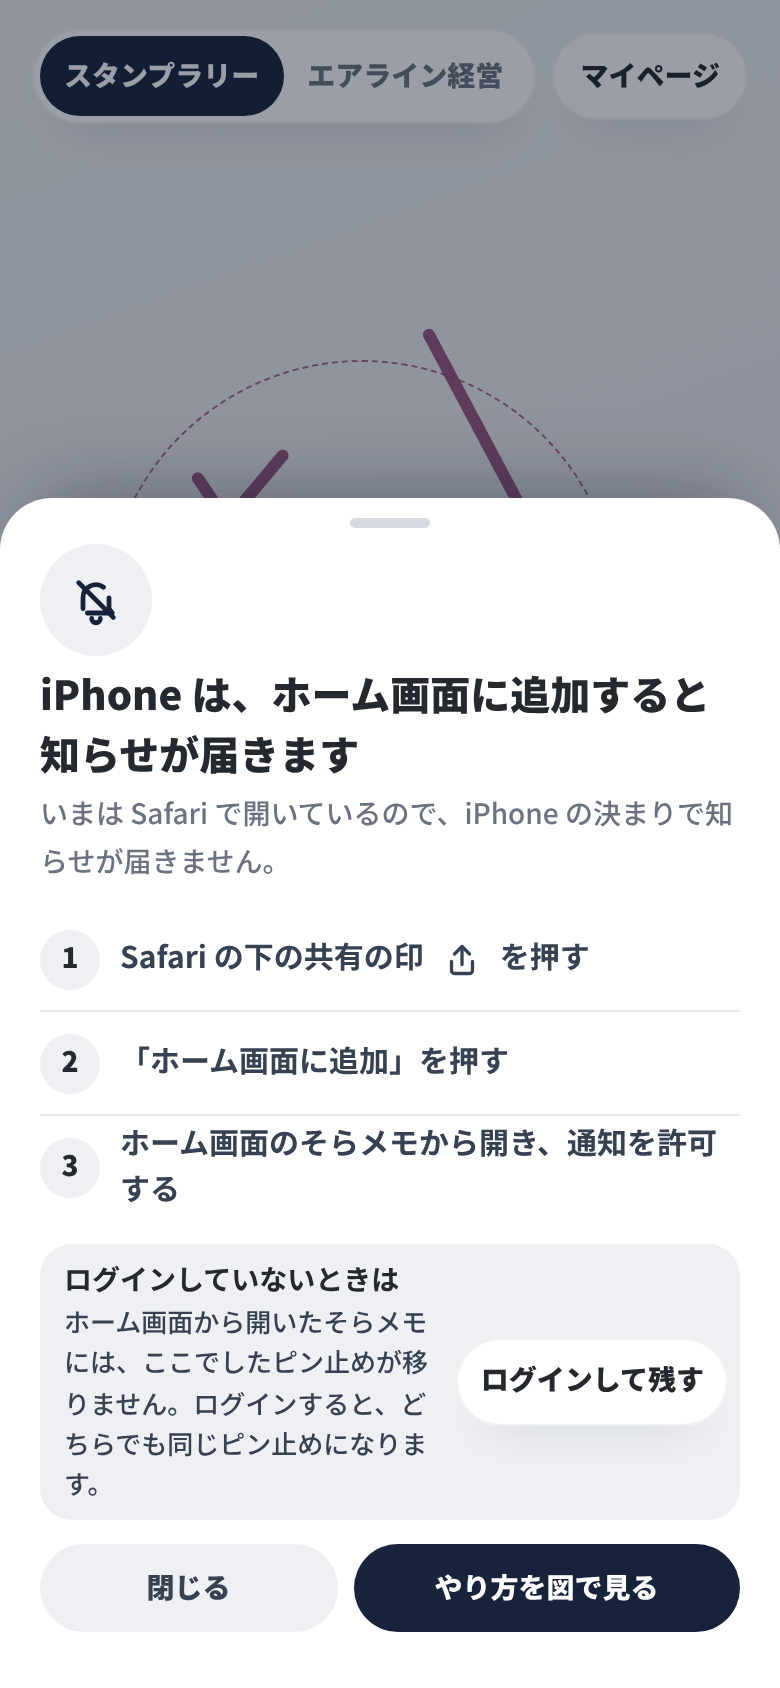
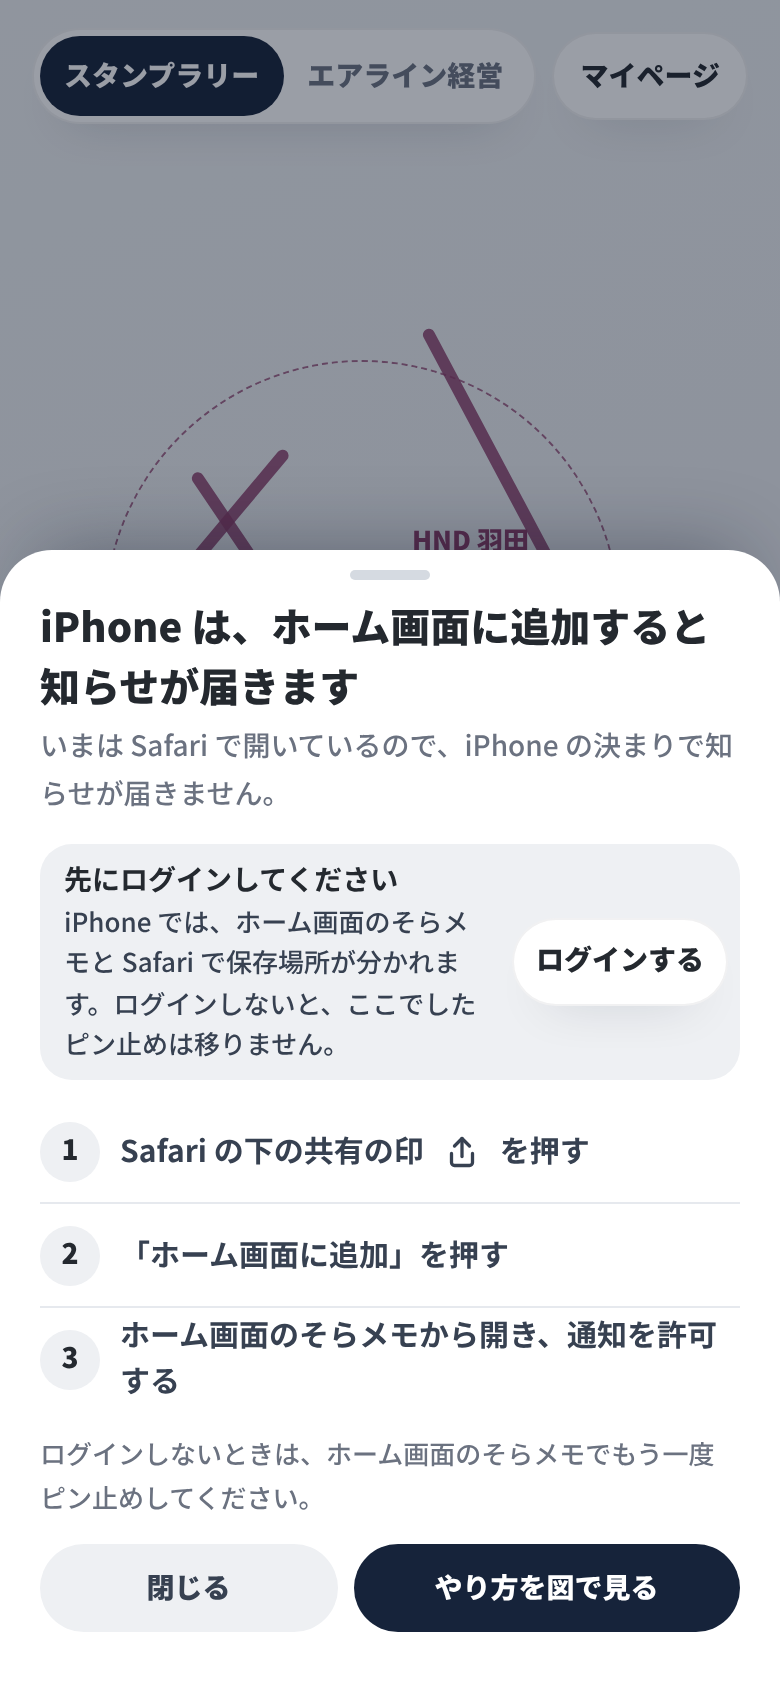
デザイン：ピン止め 4版の K0i の順番を直した（iPhone はホーム画面と Safari で保存場所が分かれるので、先にログイン→ホーム画面に追加）
Claude-Session: https://claude.ai/code/session_01WGRBVMVne3DFz29pvRRjTH

Changed region(s): [[0.0, 0.2773, 1.0, 0.8934], [0.6462, 0.5545, 0.8923, 0.6161], [0.0615, 0.6777, 0.0923, 0.7085]]

diff --git a/docs/design/pin/index.html b/docs/design/pin/index.html
@@ -460,4 +460,4 @@ svg.i{width:18px;height:18px;fill:none;stroke:currentColor;stroke-width:2.2;stro
 .mini .go{width:44px;height:44px;display:flex;align-items:center;justify-content:center;color:var(--sub)}
 .always{font-size:13px;font-weight:800;color:var(--mute);white-space:nowrap}
 .onoff .tx b .newb,.newb{display:inline-block;margin-left:6px;font-size:13px;font-weight:800;color:var(--navy);background:#E9EDF4;border-radius:999px;padding:1px 8px;vertical-align:1px}
-</style></head><body><div class="idx"><h1>ピン止め</h1><p>design/pin 4版（11/18）。中心は空港。ピン止めした空港に特別塗装機が向かってきたら知らせます。空港ごとの知らせの申し込みはピン止めの1か所（K5）にまとめます。画面案だけで、アプリには入れません。</p><p><b>ピン止めの2つの形</b>：している＝紺の塗り＋塗りのピン＋「ピン止め中 ›」（押すとその空港の知らせ）／していない＝白地＋線のピン＋「ピン止め」（押すとピン止め）。羽田・成田・石垣はどの画面でもピン止め中。知らせの名前は「特別塗装機」「遅れ・欠航・ダイバート」「ゴーアラウンド」「撮影」の4つ。</p><h2>4版：空港をピン止め（おすすめ・review-2 の直し）</h2><ul><li><a href="K0-v4.html"><b>K0</b><span>通知の許可を聞く前の1枚<small>最初のピン止めのときだけ。ボタンは「あとで／通知を許可する」。Android とパソコンはこの形</small></span></a></li><li><a href="K0i-v4.html"><b>K0i</b><span>iPhone でホーム画面に置いていない<small>ログインしていない人の1行と「ログインして残す」。実機で移ると分かれば1行は消す。iPhone のアプリができたらこの1枚は要らない</small></span></a></li><li><a href="K1-v4.html"><b>K1</b><span>ホーム（本番の形）<small>札「ピン止め中 ›」は押すと K1s</small></span></a></li><li><a href="K1s-v4.html"><b>K1s</b><span>札を押したとき<small>羽田の知らせをシートで。外すのは下</small></span></a></li><li><a href="K1n-v4.html"><b>K1n</b><span>ピン止めしていない空港にいるとき<small>黒いカードの上の「ピン止め」</small></span></a></li><li><a href="K1o-v4.html"><b>K1o</b><span>シートを引き上げたとき<small>ほかの空港の行のピンは押すと付け外し（元に戻せる）</small></span></a></li><li><a href="K1h-v4.html"><b>K1h</b><span>ホームに出すもの<small>「ピン止めした空港」の行を足す。はじめ ON（本人に聞く）</small></span></a></li><li><a href="K2-v4.html"><b>K2</b><span>空港ページ（羽田）<small>「ピン止め中 ›」と「羽田の知らせ」のどちらからも K6</small></span></a></li><li><a href="K3-v4.html"><b>K3</b><span>図鑑の空港（成田）<small>「ピン止め中 ›」</small></span></a></li><li><a href="K3s-v4.html"><b>K3s</b><span>札を押したとき（成田）<small>図鑑からも知らせへ。行き止まりなし</small></span></a></li><li><a href="K3n-v4.html"><b>K3n</b><span>図鑑の空港（中部）<small>していない＝白地＋線のピン＋「ピン止め」</small></span></a></li><li><a href="K4-v4.html"><b>K4</b><span>ピン止めした直後<small>最初の1回だけ・取り消す</small></span></a></li><li><a href="K4d-v4.html"><b>K4d</b><span>通知を許可していないとき<small>ON に「届きません」・取り消すを足した。「許可する」は確認が出せればその場で、断ったあとは設定のやり方</small></span></a></li><li><a href="K4t-v4.html"><b>K4t</b><span>2回目からは帯だけ<small>ピン止めした空港 4 のかたまりも出す</small></span></a></li><li><a href="K4u-v4.html"><b>K4u</b><span>外したとき<small>元に戻す</small></span></a></li><li><a href="K5-v4.html"><b>K5</b><span>知らせ（1か所）<small>名前を「遅れ・欠航・ダイバート」にそろえた。12空港に届いたら「＋」は押せなくなる。機体ごとは今の分だけ残す案</small></span></a></li><li><a href="K5n-v4.html"><b>K5n</b><span>知らせ（iPhone で置いていない）<small>上に端末の1行</small></span></a></li><li><a href="K6-v4.html"><b>K6</b><span>羽田の知らせ<small>題は「遅れ・欠航・ダイバート」、羽田に門限がないことは補足だけ</small></span></a></li><li><a href="K6n-v4.html"><b>K6n</b><span>石垣の知らせ<small>出せない知らせは薄く、理由は空港名で</small></span></a></li><li><a href="K7-v4.html"><b>K7</b><span>運用タブ 空港側<small>上の1行と帯は本番（PR #112）のまま。撮影地・運用の下に特別塗装機の欄（本番の並び）。1行は「特別塗装機・遅れ・撮影の知らせが ON」</small></span></a></li><li><a href="K7n-v4.html"><b>K7n</b><span>運用タブ ピン止めしていない空港<small>押すと K4 か K4t の帯</small></span></a></li><li><a href="K8-v4.html"><b>K8</b><span>空港を選ぶシート<small>右は押せない小さいピンの印。付け外しは知らせの画面で</small></span></a></li><li><a href="K9-v4.html"><b>K9</b><span>今の利用者への案内<small>1回だけ。ゴーアラウンドを申し込んでいた空港も同じように移す</small></span></a></li><li><a href="K9b-v4.html"><b>K9b</b><span>上限12を超える人<small>大きい字は「15空港」だけ。今は遅れ12・特別塗装機14空港まで（合わせて最大26）</small></span></a></li><li><a href="K10-v4.html"><b>K10</b><span>知らせの見本<small>通知の文から仕組みの説明を外した。海外の会社の機体の見本を足した</small></span></a></li></ul><h2>3版（比べる用に残す）</h2><ul><li><a href="K1-v3.html"><b>K1</b><span>ホーム<small></small></span></a></li><li><a href="K3-v3.html"><b>K3</b><span>図鑑の空港<small></small></span></a></li><li><a href="K5-v3.html"><b>K5</b><span>知らせ<small></small></span></a></li><li><a href="K6-v3.html"><b>K6</b><span>羽田の知らせ<small></small></span></a></li><li><a href="K8-v3.html"><b>K8</b><span>空港を選ぶシート<small></small></span></a></li></ul><h2>2版（比べる用に残す）</h2><ul><li><a href="00-v2.html"><b>00</b><span>今の空港ごとの知らせ<small></small></span></a></li><li><a href="K5b-v2.html"><b>K5b</b><span>比べる用：表の形<small></small></span></a></li></ul><h2>1版：機体をピン止め（2番目の案）</h2><ul><li><a href="P1.html"><b>P1</b><span>機体側・ピン止めの段<small></small></span></a></li><li><a href="P2.html"><b>P2</b><span>機体の1日<small></small></span></a></li><li><a href="P3.html"><b>P3</b><span>特別塗装機の欄<small></small></span></a></li><li><a href="P6.html"><b>P6</b><span>機体の知らせの設定<small></small></span></a></li><li><a href="P7.html"><b>P7</b><span>機体の知らせの見本<small></small></span></a></li></ul></div></body></html>
+</style></head><body><div class="idx"><h1>ピン止め</h1><p>design/pin 4版（11/18）。中心は空港。ピン止めした空港に特別塗装機が向かってきたら知らせます。空港ごとの知らせの申し込みはピン止めの1か所（K5）にまとめます。画面案だけで、アプリには入れません。</p><p><b>ピン止めの2つの形</b>：している＝紺の塗り＋塗りのピン＋「ピン止め中 ›」（押すとその空港の知らせ）／していない＝白地＋線のピン＋「ピン止め」（押すとピン止め）。羽田・成田・石垣はどの画面でもピン止め中。知らせの名前は「特別塗装機」「遅れ・欠航・ダイバート」「ゴーアラウンド」「撮影」の4つ。</p><h2>4版：空港をピン止め（おすすめ・review-2 の直し）</h2><ul><li><a href="K0-v4.html"><b>K0</b><span>通知の許可を聞く前の1枚<small>最初のピン止めのときだけ。ボタンは「あとで／通知を許可する」。Android とパソコンはこの形</small></span></a></li><li><a href="K0i-v4.html"><b>K0i</b><span>iPhone でホーム画面に置いていない<small>ログインしていない人には手順より先に「先にログイン」（iPhone はホーム画面と Safari で保存場所が分かれる）。ログインしない人はホーム画面でもう一度ピン止め。実機で移ると分かればこの1行は消す。iPhone のアプリができたらこの1枚は要らない</small></span></a></li><li><a href="K1-v4.html"><b>K1</b><span>ホーム（本番の形）<small>札「ピン止め中 ›」は押すと K1s</small></span></a></li><li><a href="K1s-v4.html"><b>K1s</b><span>札を押したとき<small>羽田の知らせをシートで。外すのは下</small></span></a></li><li><a href="K1n-v4.html"><b>K1n</b><span>ピン止めしていない空港にいるとき<small>黒いカードの上の「ピン止め」</small></span></a></li><li><a href="K1o-v4.html"><b>K1o</b><span>シートを引き上げたとき<small>ほかの空港の行のピンは押すと付け外し（元に戻せる）</small></span></a></li><li><a href="K1h-v4.html"><b>K1h</b><span>ホームに出すもの<small>「ピン止めした空港」の行を足す。はじめ ON（本人に聞く）</small></span></a></li><li><a href="K2-v4.html"><b>K2</b><span>空港ページ（羽田）<small>「ピン止め中 ›」と「羽田の知らせ」のどちらからも K6</small></span></a></li><li><a href="K3-v4.html"><b>K3</b><span>図鑑の空港（成田）<small>「ピン止め中 ›」</small></span></a></li><li><a href="K3s-v4.html"><b>K3s</b><span>札を押したとき（成田）<small>図鑑からも知らせへ。行き止まりなし</small></span></a></li><li><a href="K3n-v4.html"><b>K3n</b><span>図鑑の空港（中部）<small>していない＝白地＋線のピン＋「ピン止め」</small></span></a></li><li><a href="K4-v4.html"><b>K4</b><span>ピン止めした直後<small>最初の1回だけ・取り消す</small></span></a></li><li><a href="K4d-v4.html"><b>K4d</b><span>通知を許可していないとき<small>ON に「届きません」・取り消すを足した。「許可する」は確認が出せればその場で、断ったあとは設定のやり方</small></span></a></li><li><a href="K4t-v4.html"><b>K4t</b><span>2回目からは帯だけ<small>ピン止めした空港 4 のかたまりも出す</small></span></a></li><li><a href="K4u-v4.html"><b>K4u</b><span>外したとき<small>元に戻す</small></span></a></li><li><a href="K5-v4.html"><b>K5</b><span>知らせ（1か所）<small>名前を「遅れ・欠航・ダイバート」にそろえた。12空港に届いたら「＋」は押せなくなる。機体ごとは今の分だけ残す案</small></span></a></li><li><a href="K5n-v4.html"><b>K5n</b><span>知らせ（iPhone で置いていない）<small>上に端末の1行</small></span></a></li><li><a href="K6-v4.html"><b>K6</b><span>羽田の知らせ<small>題は「遅れ・欠航・ダイバート」、羽田に門限がないことは補足だけ</small></span></a></li><li><a href="K6n-v4.html"><b>K6n</b><span>石垣の知らせ<small>出せない知らせは薄く、理由は空港名で</small></span></a></li><li><a href="K7-v4.html"><b>K7</b><span>運用タブ 空港側<small>上の1行と帯は本番（PR #112）のまま。撮影地・運用の下に特別塗装機の欄（本番の並び）。1行は「特別塗装機・遅れ・撮影の知らせが ON」</small></span></a></li><li><a href="K7n-v4.html"><b>K7n</b><span>運用タブ ピン止めしていない空港<small>押すと K4 か K4t の帯</small></span></a></li><li><a href="K8-v4.html"><b>K8</b><span>空港を選ぶシート<small>右は押せない小さいピンの印。付け外しは知らせの画面で</small></span></a></li><li><a href="K9-v4.html"><b>K9</b><span>今の利用者への案内<small>1回だけ。ゴーアラウンドを申し込んでいた空港も同じように移す</small></span></a></li><li><a href="K9b-v4.html"><b>K9b</b><span>上限12を超える人<small>大きい字は「15空港」だけ。今は遅れ12・特別塗装機14空港まで（合わせて最大26）</small></span></a></li><li><a href="K10-v4.html"><b>K10</b><span>知らせの見本<small>通知の文から仕組みの説明を外した。海外の会社の機体の見本を足した</small></span></a></li></ul><h2>3版（比べる用に残す）</h2><ul><li><a href="K1-v3.html"><b>K1</b><span>ホーム<small></small></span></a></li><li><a href="K3-v3.html"><b>K3</b><span>図鑑の空港<small></small></span></a></li><li><a href="K5-v3.html"><b>K5</b><span>知らせ<small></small></span></a></li><li><a href="K6-v3.html"><b>K6</b><span>羽田の知らせ<small></small></span></a></li><li><a href="K8-v3.html"><b>K8</b><span>空港を選ぶシート<small></small></span></a></li></ul><h2>2版（比べる用に残す）</h2><ul><li><a href="00-v2.html"><b>00</b><span>今の空港ごとの知らせ<small></small></span></a></li><li><a href="K5b-v2.html"><b>K5b</b><span>比べる用：表の形<small></small></span></a></li></ul><h2>1版：機体をピン止め（2番目の案）</h2><ul><li><a href="P1.html"><b>P1</b><span>機体側・ピン止めの段<small></small></span></a></li><li><a href="P2.html"><b>P2</b><span>機体の1日<small></small></span></a></li><li><a href="P3.html"><b>P3</b><span>特別塗装機の欄<small></small></span></a></li><li><a href="P6.html"><b>P6</b><span>機体の知らせの設定<small></small></span></a></li><li><a href="P7.html"><b>P7</b><span>機体の知らせの見本<small></small></span></a></li></ul></div></body></html>

diff --git a/docs/design/pin/K0i-v4.html b/docs/design/pin/K0i-v4.html
@@ -467,8 +467,9 @@ svg.i{width:18px;height:18px;fill:none;stroke:currentColor;stroke-width:2.2;stro
 <span><svg class="" viewBox="0 0 24 24" aria-hidden="true"><path d="M10.5 13.5 4 11l1.4-1.4 7 1.1 3.9-3.9c.8-.8 2.1-.8 2.9 0s.8 2.1 0 2.9l-3.9 3.9 1.1 7L15 22l-2.5-6.5-3 3v2.5L8 22.5l-1.3-3.2L3.5 18 5 16.5h2.5Z"/></svg>フライト</span>
 <span><svg class="" viewBox="0 0 24 24" aria-hidden="true"><circle cx="12" cy="12" r="8.5"/><circle cx="12" cy="12" r="4.5"/><path d="M12 12 18 6"/></svg>運用</span>
 <span><svg class="" viewBox="0 0 24 24" aria-hidden="true"><path d="M4 18 10 12l3 3 7-8"/><path d="M15 7h5v5"/></svg>修行</span></nav><div class="dim"></div><div class="sheet"><div class="grab"></div>
-<div class="bigic"><svg class="i" viewBox="0 0 24 24" aria-hidden="true"><path d="M6 16V11a6 6 0 0 1 9.5-4.9"/><path d="M18 11v5l1.5 2H8"/><path d="M10 20.5a2 2 0 0 0 4 0"/><path d="M4 4l16 16"/></svg></div><div class="shh"><h2>iPhone は、ホーム画面に追加すると知らせが届きます</h2></div>
+<div class="shh"><h2>iPhone は、ホーム画面に追加すると知らせが届きます</h2></div>
 <p class="sub" style="line-height:1.7">いまは Safari で開いているので、iPhone の決まりで知らせが届きません。</p>
+<div class="login1"><p><b>先にログインしてください</b>iPhone では、ホーム画面のそらメモと Safari で保存場所が分かれます。ログインしないと、ここでしたピン止めは移りません。</p><span>ログインする</span></div>
 <ul class="steps"><li>Safari の下の共有の印 <svg class="i" viewBox="0 0 24 24" aria-hidden="true"><path d="M12 15V3"/><path d="m7 8 5-5 5 5"/><path d="M5 13v6a2 2 0 0 0 2 2h10a2 2 0 0 0 2-2v-6"/></svg> を押す</li><li>「ホーム画面に追加」を押す</li><li>ホーム画面のそらメモから開き、通知を許可する</li></ul>
-<div class="login1"><p><b>ログインしていないときは</b>ホーム画面から開いたそらメモには、ここでしたピン止めが移りません。ログインすると、どちらでも同じピン止めになります。</p><span>ログインして残す</span></div>
+<p class="note">ログインしないときは、ホーム画面のそらメモでもう一度ピン止めしてください。</p>
 <div style="display:flex;gap:8px;margin-top:12px"><span class="pillbtn" style="flex:1">閉じる</span><span class="pillbtn" style="flex:1.4;background:var(--navy);color:#fff">やり方を図で見る</span></div></div></body></html>

diff --git a/docs/design/pin/make/make_v4.py b/docs/design/pin/make/make_v4.py
@@ -113,10 +113,11 @@ def build():
 
     # ---------- K0i iPhone の Safari でホーム画面に置いていない（ログインしていない人の1行を足す）----------
     k0i = home(HND_CARD + STAT) + f'''<div class="dim"></div><div class="sheet"><div class="grab"></div>
-<div class="bigic">{I(BELLX)}</div><div class="shh"><h2>iPhone は、ホーム画面に追加すると知らせが届きます</h2></div>
+<div class="shh"><h2>iPhone は、ホーム画面に追加すると知らせが届きます</h2></div>
 <p class="sub" style="line-height:1.7">いまは Safari で開いているので、iPhone の決まりで知らせが届きません。</p>
+<div class="login1"><p><b>先にログインしてください</b>iPhone では、ホーム画面のそらメモと Safari で保存場所が分かれます。ログインしないと、ここでしたピン止めは移りません。</p><span>ログインする</span></div>
 <ul class="steps"><li>Safari の下の共有の印 {I(SHAREI)} を押す</li><li>「ホーム画面に追加」を押す</li><li>ホーム画面のそらメモから開き、通知を許可する</li></ul>
-<div class="login1"><p><b>ログインしていないときは</b>ホーム画面から開いたそらメモには、ここでしたピン止めが移りません。ログインすると、どちらでも同じピン止めになります。</p><span>ログインして残す</span></div>
+<p class="note">ログインしないときは、ホーム画面のそらメモでもう一度ピン止めしてください。</p>
 <div style="display:flex;gap:8px;margin-top:12px"><span class="pillbtn" style="flex:1">閉じる</span><span class="pillbtn" style="flex:1.4;background:var(--navy);color:#fff">やり方を図で見る</span></div></div>'''
     page("K0i-v4", "K0i iPhone でホーム画面に置いていない", k0i)
 
@@ -270,7 +271,7 @@ def build():
     # ---------- 一覧（作り手の説明はここへ）----------
     L = [("4版：空港をピン止め（おすすめ・review-2 の直し）", [
             ("K0-v4", "通知の許可を聞く前の1枚", "最初のピン止めのときだけ。ボタンは「あとで／通知を許可する」。Android とパソコンはこの形"),
-            ("K0i-v4", "iPhone でホーム画面に置いていない", "ログインしていない人の1行と「ログインして残す」。実機で移ると分かれば1行は消す。iPhone のアプリができたらこの1枚は要らない"),
+            ("K0i-v4", "iPhone でホーム画面に置いていない", "ログインしていない人には手順より先に「先にログイン」（iPhone はホーム画面と Safari で保存場所が分かれる）。ログインしない人はホーム画面でもう一度ピン止め。実機で移ると分かればこの1行は消す。iPhone のアプリができたらこの1枚は要らない"),
             ("K1-v4", "ホーム（本番の形）", "札「ピン止め中 ›」は押すと K1s"),
             ("K1s-v4", "札を押したとき", "羽田の知らせをシートで。外すのは下"),
             ("K1n-v4", "ピン止めしていない空港にいるとき", "黒いカードの上の「ピン止め」"),

diff --git a/docs/pm/report-pin.md b/docs/pm/report-pin.md
@@ -123,7 +123,7 @@ PM の指示 11/17 21時20分（改善担当 review-1「方向は見せてよい
 | review-2 | 4版 |
 |---|---|
 | 1. 「ピン止め中」が押せず行き止まり | 札は紺の塗りのまま右に小さい「›」。押すとその空港の知らせをシートで開く（K1→K1s・K3→K3s・K2→K6）。外すのはシートの下。行のピン（K1o・K4t・K4u）は今までどおり押すと付け外し＋元に戻す。K8 だけは行の右を押せない小さい印にした（指摘10） |
-| 2. iPhone の Safari で「ピン止めはこのまま使えます」と言い切る | K0i から言い切りを消し、「ログインしていないときは、ホーム画面から開いたそらメモにはピン止めが移りません」＋「ログインして残す」の1行を足した。実機で移ると分かれば、この1行を消すだけ |
+| 2. iPhone の Safari で「ピン止めはこのまま使えます」と言い切る | K0i から言い切りを消した。iPhone はホーム画面に追加したそらメモと Safari で保存場所が分かれる（広く知られた iPhone の決まり。実機での確認はチェックイン担当）ので、順番を「①先にログイン（ログインする）→②ホーム画面に追加の3つの手順」にし、ログインしない人には「ホーム画面のそらメモでもう一度ピン止め」と書いた（11/18 5時40分の PM の指示で順番を直した）。実機で移ると分かれば、ログインの箱を消すだけ |
 | 3. 知らせの名前がばらばら | 題も札も「特別塗装機が向かってきたら（札は特別塗装機）」「遅れ・欠航・ダイバート」「ゴーアラウンド（推定）」「撮影の知らせ」の4つに。空港ごとの違い（羽田は門限なし・石垣は欠航などだけ）は補足の文だけ。特別塗装機の説明は全画面で「国内・海外の特別塗装機。アライアンス塗装は海外の会社のものだけ」 |
 
 ## ほかの直し
